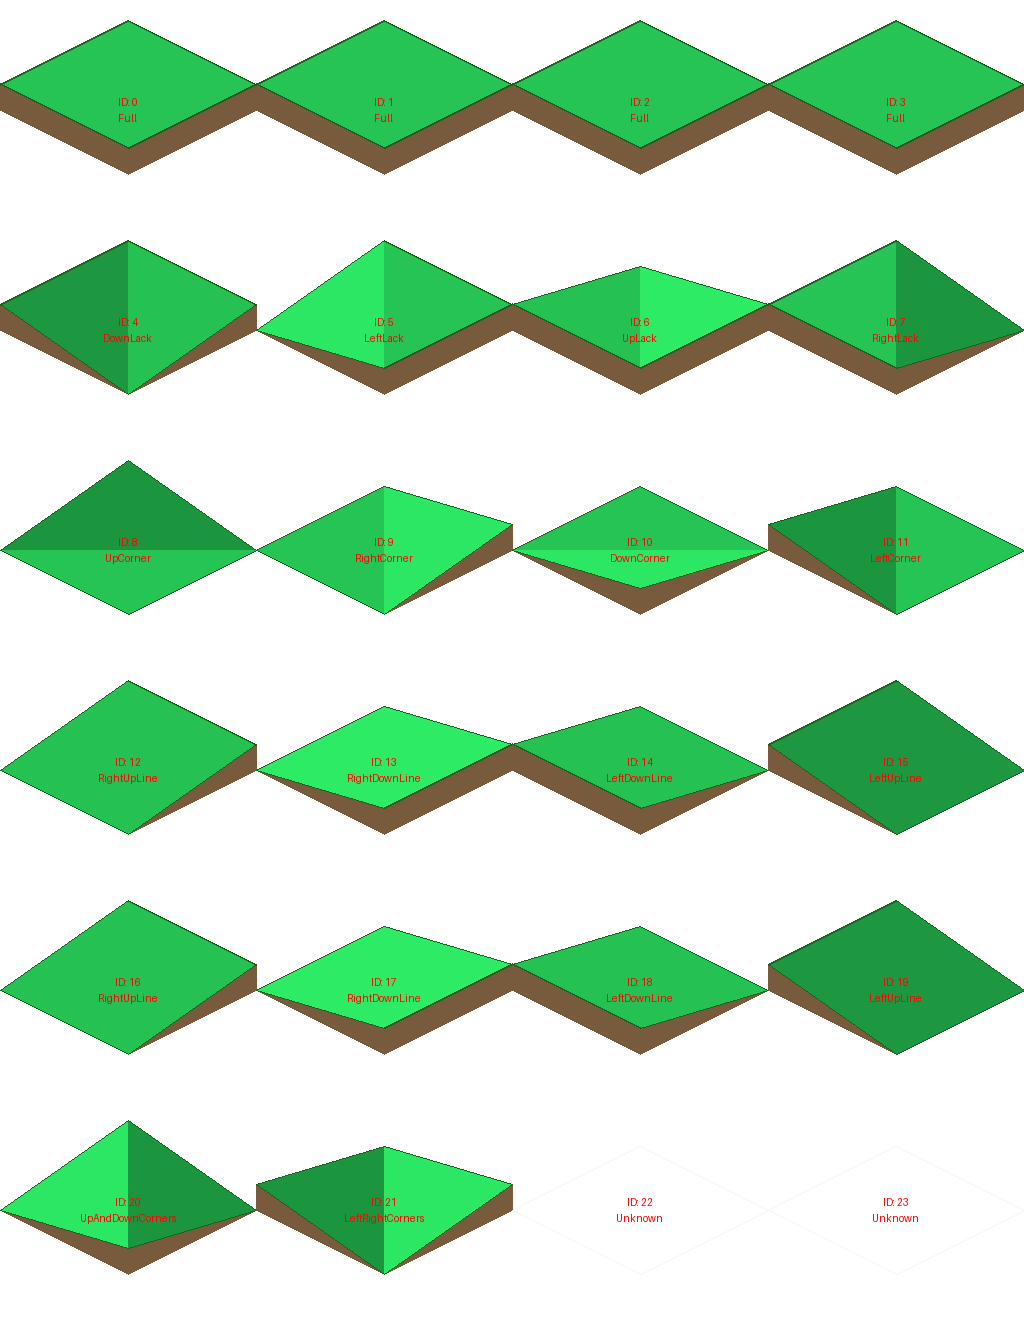
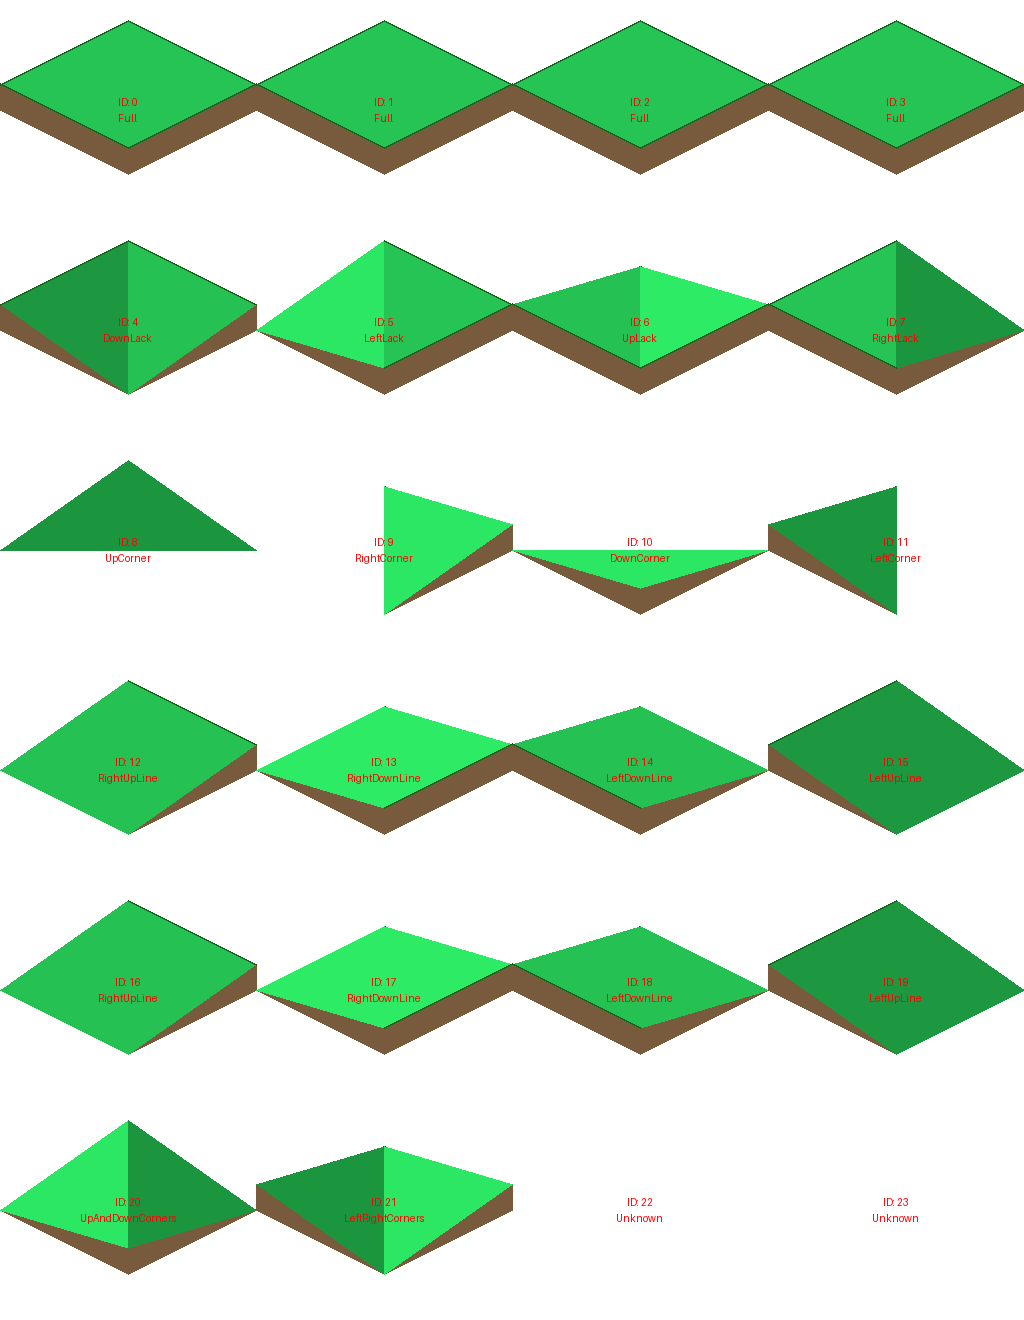
improvement generate_atlas.py

Changed region(s): [[0.0, 0.3727, 0.375, 0.4659], [0.5, 0.3727, 0.75, 0.4348], [0.875, 0.3727, 1.0, 0.4659]]

diff --git a/utils/asset_generator/generate_atlas.py b/utils/asset_generator/generate_atlas.py
@@ -1,4 +1,5 @@
 import math
+import sys
 from PIL import Image, ImageDraw
 
 def normalize(v):
@@ -126,7 +127,7 @@ def generate_png_atlas():
         pts_surface = [pts_top[j] if m[j] else pts_base[j] for j in range(4)]
         
         # Основание
-        draw.polygon(pts_base, outline=(230, 230, 230, 100))
+        # draw.polygon(pts_base, outline=(230, 230, 230, 100))
 
         # Стенки почвы
         for j in [1, 0, 2, 3]: 
@@ -157,12 +158,16 @@ def generate_png_atlas():
                 tris = [(0, 1, 3), (1, 2, 3)]
 
             for (i1, i2, i3) in tris:
+                # Skip triangle if all vertices are at zero level
+                if m[i1] == 0 and m[i2] == 0 and m[i3] == 0:
+                    continue
+
                 col = get_lighting_color(grass_color, pts_3d[i1], pts_3d[i2], pts_3d[i3], light_dir)
                 poly = [pts_surface[i1], pts_surface[i2], pts_surface[i3]]
                 draw.polygon(poly, fill=col)
             
             # Outline for the whole shape
-            draw.polygon(pts_surface, outline=grass_outline)
+            # draw.polygon(pts_surface, outline=grass_outline)
             
             for j in range(4):
                 nj = (j + 1) % 4
@@ -181,8 +186,12 @@ def generate_png_atlas():
         draw.text((tx, ty - 8), f"ID: {i}", fill=text_color, anchor="mm")
         draw.text((tx, ty + 8), t_type, fill=text_color, anchor="mm")
 
-    img.save('technical_atlas.png')
-    print("Technical atlas with lighting saved.")
+    output_path = 'technical_atlas.png'
+    if len(sys.argv) > 1:
+        output_path = sys.argv[1]
+
+    img.save(output_path)
+    print(f"Technical atlas with lighting saved to {output_path}")
 
 if __name__ == "__main__":
     generate_png_atlas()

diff --git a/utils/asset_generator/README.md b/utils/asset_generator/README.md
@@ -1,0 +1,35 @@
+# Генератор Технического Атласа (Technical Atlas Generator)
+
+Этот скрипт генерирует текстурный атлас для изометрических тайлов ландшафта. Он создает визуализацию различных типов тайлов (углы, склоны, ровные участки) с просчетом освещения и наложением "почвы" (боковых стенок).
+
+## Возможности
+
+*   **Изометрическая проекция**: Генерирует тайлы в правильной изометрической проекции (соотношение сторон 2:1).
+*   **Освещение**: Рассчитывает простое направленное освещение для граней тайлов на основе их нормалей.
+*   **Типология**: Поддерживает множество конфигураций тайлов (Full, Corners, Lacks, Lines и т.д.), определенных через маски высот.
+*   **Визуализация**: Рисует зеленую поверхность ("траву") и коричневые боковые стенки ("почву").
+*   **Отладка**: Наносит ID и название типа тайла прямо на изображение.
+
+## Как использовать
+
+Скрипт можно запустить без аргументов (результат сохранится в текущей папке как `technical_atlas.png`) или указать путь для сохранения файла.
+
+### Примеры запуска
+
+1.  **Базовый запуск** (сохранит `technical_atlas.png` в папке запуска):
+    ```bash
+    python utils/asset_generator/generate_atlas.py
+    ```
+
+2.  **Указание пути сохранения** (сохранит файл по указанному пути):
+    ```bash
+    python utils/asset_generator/generate_atlas.py resources/assets/landscape/TechnicalGrass/atlas.png
+    ```
+
+## Зависимости
+
+Для работы скрипта требуется библиотека `Pillow` (PIL).
+Если она не установлена:
+```bash
+pip install Pillow
+```
